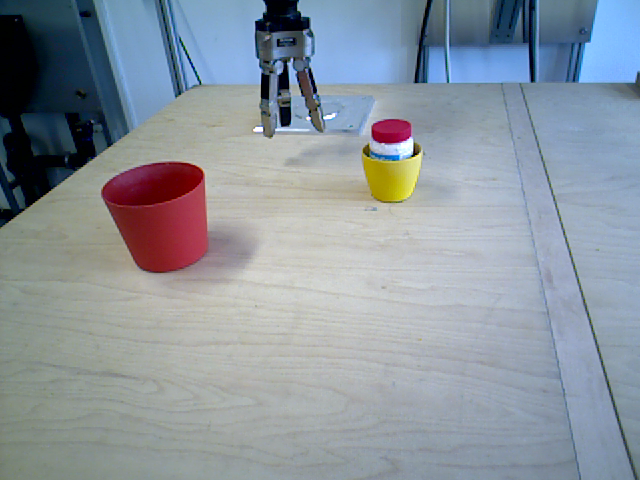
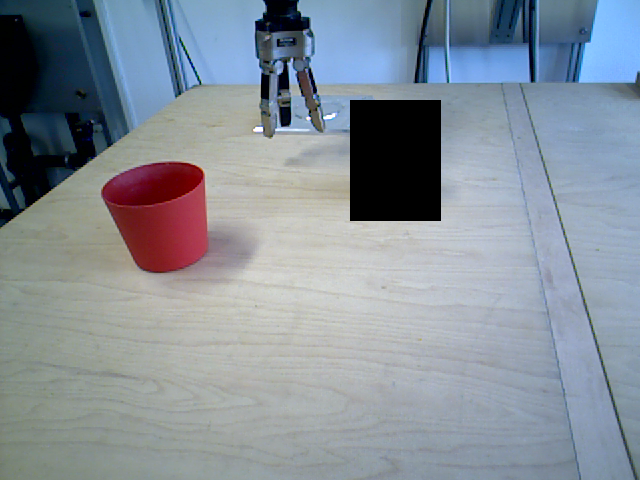
så er denne opgave løst

Changed region(s): [[0.5312, 0.1875, 0.6875, 0.4688]]

diff --git a/Vision/Exercise_1/DisplayImage/src/DisplayImage.cpp b/Vision/Exercise_1/DisplayImage/src/DisplayImage.cpp
@@ -46,7 +46,7 @@ int main()
 
         // display image
     cv::imshow("Image", graySC);
-   // cv::waitKey();
+    cv::waitKey();
 
 
 
@@ -61,37 +61,64 @@ int main()
 //function definition
 void rect1(){
     //rectangle drawn using rectangle draw funciton
+    cv::Mat img = cv::imread("../color.png");
+
+    cv::Point p1= cv::Point(350,100);
+    cv::Point p2= Point(440,220);
+
+    rectangle( img, p1, p2, Scalar( 0, 0, 0 ), -1, 8 );
+
+    cv::imshow("ImageRect1",img);
+    cv::waitKey();
+
 }
 
 
 void rect2(){
     // rectangle drawn using line draw function
+    cv::Mat img = cv::imread("../color.png");
+    Point start, end;
+    cv::Point p1= cv::Point(350,100);
+    cv::Point p2= Point(440,220);
 
+    start = p1;
+    end = p2;
+    int thickness = 0;
+    int lineType = 8;
+
+    for (unsigned int i = 100; i<=220; i++ ){
+        start.y = i;
+        end.y = i;
+        line( img, start, end, Scalar( 0, 0, 0 ),
+              thickness,
+              lineType );
+    }
+
+
+        cv::imshow("ImageRect2",img);
+        cv::waitKey();
 }
 
 
 void rect3(){
     // rectangle drawn using point manipulation functions
     cv::Mat img = cv::imread("../color.png");
-    cv::Mat img2 = img.clone();
+    cv::Point p1= cv::Point(350,100);
+    cv::Point p2= Point(440,220);
 
 
-    for (unsigned int i = 7; i<=70; i++){
-        for(unsigned int j = 8; j<=80; j++){
-            cout << i << j<< endl;
-            //img.at<cv::Vec3b>(i, j) = cv::Scalar::all(0);
+    for (unsigned int i = 350; i<=440; i++){
+        for(unsigned int j = 100; j<=220; j++){
+            Vec3b &color = img.at<Vec3b>(Point(i,j));
+            color[0] = 0;
+            color[1] = 0;
+            color[2] = 0;
         }
     }
-    Vec3b intensity = img.at<Vec3b>(10, 10);
-    uchar blue = intensity.val[0];
-    uchar green = intensity.val[1];
-    uchar red = intensity.val[2];
-
-    cout << "blue" << (int)blue << " green" << (int)green << " red" << (int)red << endl;
 
     // save the image in a file
-    cv::imwrite("../Images/rect3.png",img2);
-    cv::imshow("Image58",img);
+    cv::imwrite("../Images/rect3.png",img);
+    cv::imshow("ImageRect3",img);
     cv::waitKey();
 
 
@@ -99,6 +126,15 @@ void rect3(){
 
 void rectColor(){
     // todo
+    cv::Mat img = cv::imread("../color.png");
+
+    cv::Point p1= cv::Point(350,100);
+    cv::Point p2= Point(440,220);
+
+    rectangle( img, p1, p2, Scalar( 0, 255, 0 ), -1, 8 );
+
+    cv::imshow("ImageRectCol",img);
+    cv::waitKey();
 
 }
 
